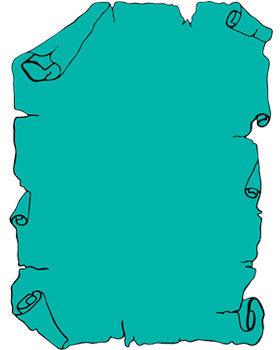
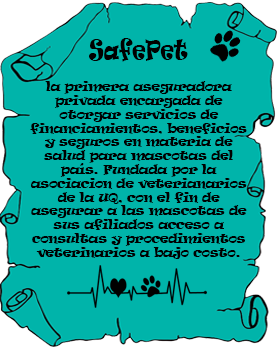
Se realizan ajustes de cordenadas de imagenes

Changed region(s): [[0.0, 0.0, 1.0, 1.0]]

diff --git a/src/interfaz/VentanaInicio.java b/src/interfaz/VentanaInicio.java
@@ -24,8 +24,7 @@ public class VentanaInicio extends JFrame implements ActionListener {
 	private static final String BTNSIMULAR = "./img/BtnSimular.png";
 	private static final String BTNATRAS = "./img/BtnAtras.png";
 	private static final String LOGOESQUINA = "./img/LogoEsquina.png";
-	//private static final String PERGAMINO = "./img/Pergamino.png";
-	private static final String PERGAMINO = "./img/PergaminoTexto.png";
+	private static final String PERGAMINO = "./img/Pergamino.png";
 	private static final String LATERALDERECHO = "./img/LateralDerecho.png";
 	private static final String LATERALIZQUIERDO = "./img/LateralIzquierdo.png";
 	
@@ -73,13 +72,13 @@ public class VentanaInicio extends JFrame implements ActionListener {
 		lblPergamino.setBounds(158, 6, 280, 350);
 		contentPane.add(lblPergamino);
 		
-		JLabel lblLateralDerecho = new JLabel(new ImageIcon(LATERALDERECHO));
-		lblLateralDerecho.setBounds(40, 98, 50, 210);
-		contentPane.add(lblLateralDerecho);
-		
 		JLabel lblLateralIzquierdo = new JLabel(new ImageIcon(LATERALIZQUIERDO));
-		lblLateralIzquierdo.setBounds(514, 93, 50, 210);
+		lblLateralIzquierdo.setBounds(40, 98, 50, 210);
 		contentPane.add(lblLateralIzquierdo);
+		
+		JLabel lblLateralDerecho = new JLabel(new ImageIcon(LATERALDERECHO));
+		lblLateralDerecho.setBounds(514, 93, 50, 210);
+		contentPane.add(lblLateralDerecho);
 		
 		JLabel lblFondo = new JLabel(new ImageIcon(FONDO));
 		lblFondo.setBounds(0, 6, 604, 361);
